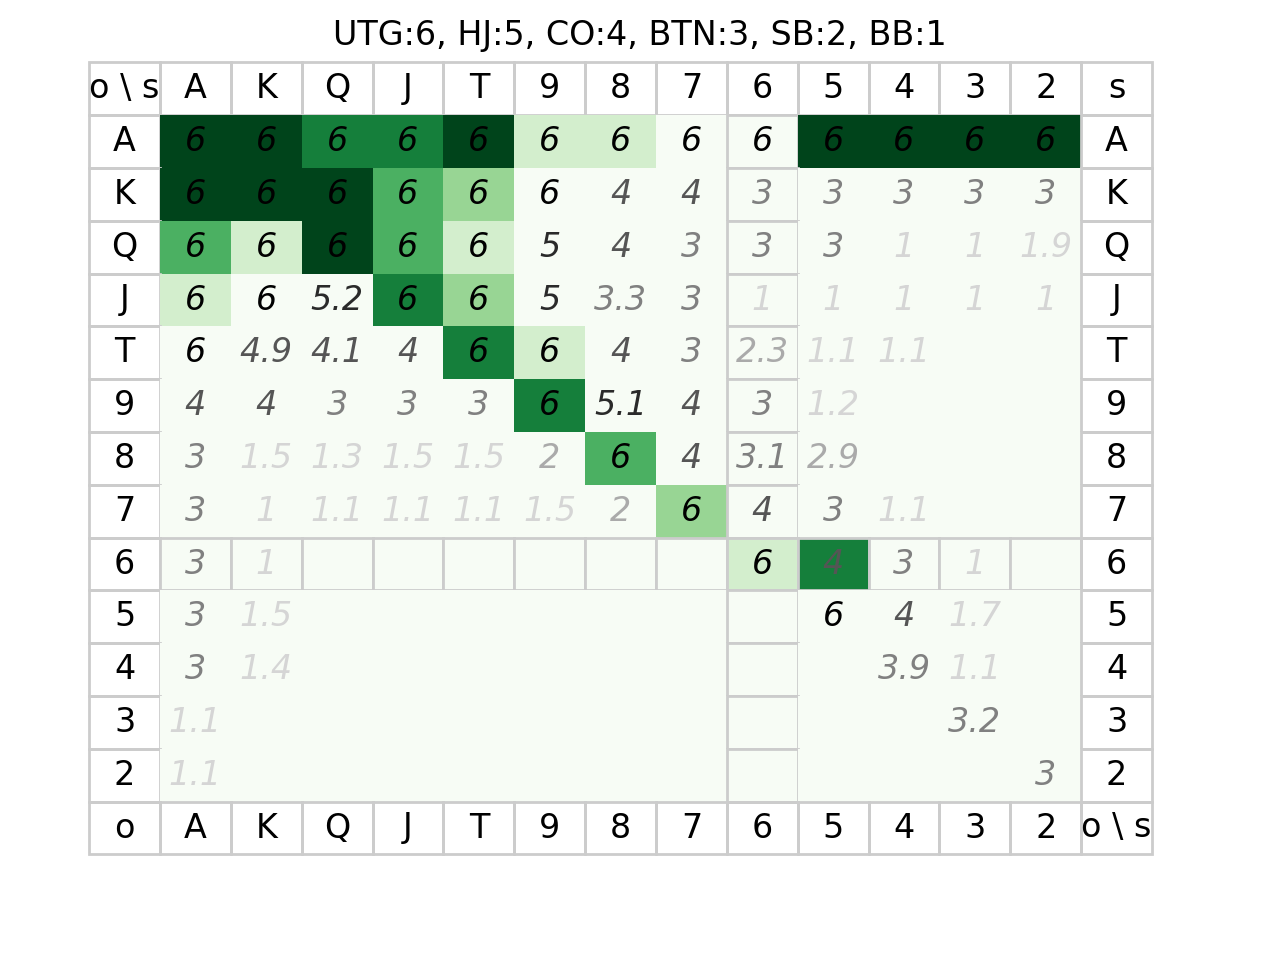
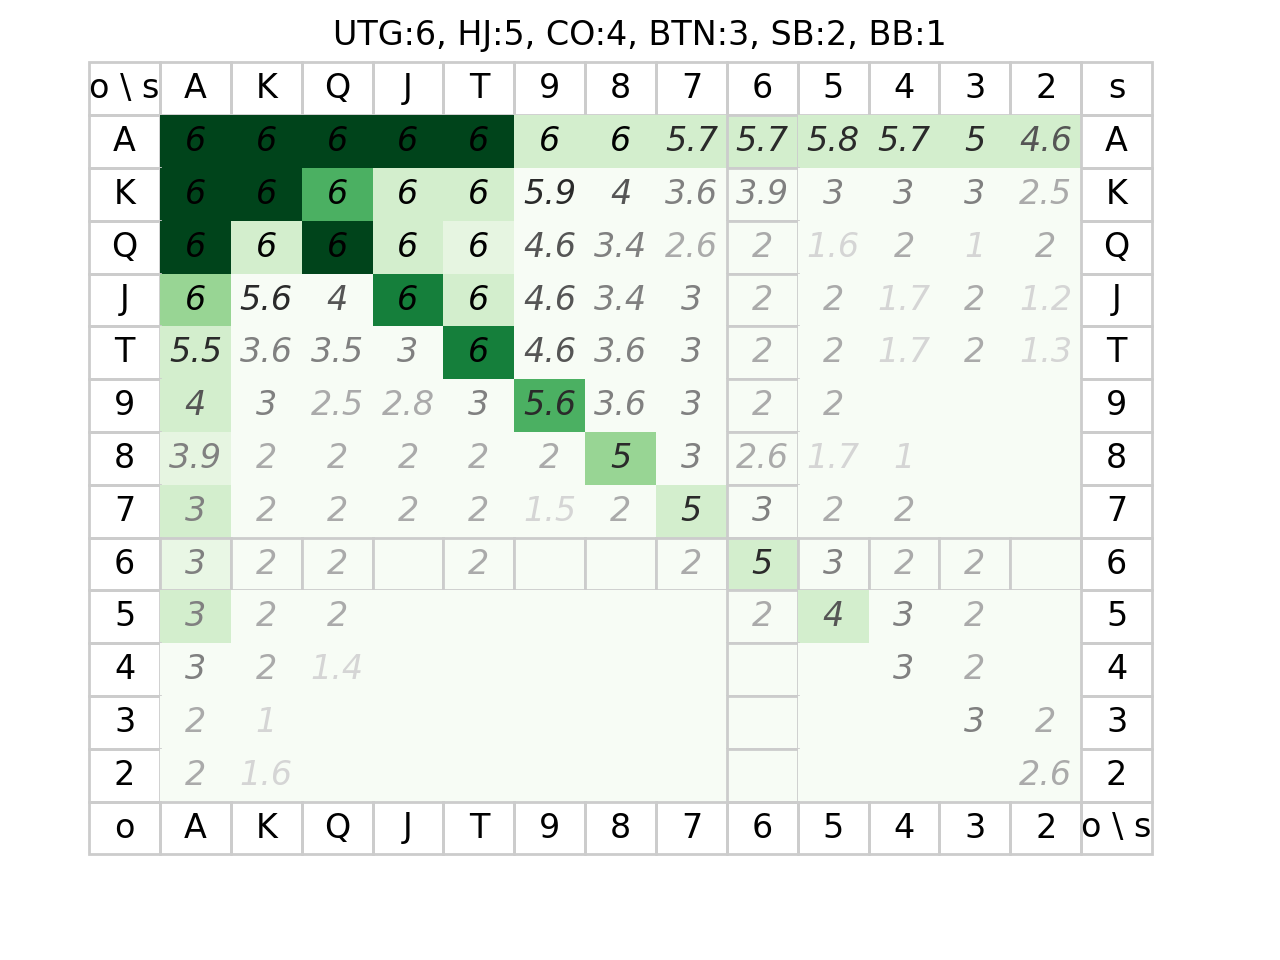
update

diff --git a/poker.py b/poker.py
@@ -7,6 +7,7 @@ from optparse import OptionParser
 sys.path.append('./holdem_calc')
 import holdem_calc
 
+# rev 1
 card_data = {
     # raise or fold: BB[0-1], SB[1-2], BTN[2-3], CO[3-4], HJ[4-5], UTG[5-6]
     "AA" : [6, 7], "KK" : [6, 7], "QQ": [6, 7], "JJ": [6, 6],
@@ -47,6 +48,49 @@ card_data = {
     "98o": [2], "97o": [1.5],
     "87o": [2],
 }
+
+# 30BB, 1POT
+card_data = {
+    # raise or fold: BB[0-1], SB[1-2], BTN[2-3], CO[3-4], HJ[4-5], UTG[5-6]
+    "AA" : [6, 7], "KK" : [6, 7], "QQ": [6, 7], "JJ": [6, 6],
+    "TT" : [6, 6], "99" : [5.6, 5], "88": [5, 4], "77": [5, 3],
+    "66" : [5, 3], "55" : [4, 3], "44": [3], "33": [3],
+    "22" : [2.6],
+    "AKs": [6, 7], "AQs": [6, 7], "AJs": [6, 7], "ATs": [6, 7],
+    "A9s": [6, 3], "A8s": [6, 3], "A7s": [5.7, 3], "A6s": [5.7, 3],
+    "A5s": [5.8, 3], "A4s": [5.7, 3], "A3s": [5, 3], "A2s": [4.6, 3],
+    "KQs": [6, 5], "KJs": [6, 3], "KTs": [6, 3], "K9s": [5.9],
+    "K8s": [4], "K7s": [3.6], "K6s": [3.9], "K5s": [3],
+    "K4s": [3], "K3s": [3], "K2s": [2.5],
+    "QJs": [6, 3], "QTs": [6, 2.6], "Q9s": [4.6], "Q8s": [3.4],
+    "Q7s": [2.6], "Q6s": [2], "Q5s": [1.6], "Q4s": [2],
+    "Q3s": [1], "Q2s": [2],
+    "JTs": [6, 3], "J9s": [4.6], "J8s": [3.4], "J7s": [3],
+    "J6s": [2], "J5s": [2], "J4s": [1.7], "J3s": [2],
+    "J2s": [1.2],
+    "T9s": [4.6], "T8s": [3.6], "T7s": [3], "T6s": [2],
+    "T5s": [2], "T4s": [1.7], "T3s": [2], "T2s": [1.3],
+    "98s": [3.6], "97s": [3], "96s": [2], "95s": [2],
+    "87s": [3], "86s": [2.6], "85s": [1.7], "84s": [1],
+    "76s": [3], "75s": [2], "74s": [2],
+    "65s": [3], "64s": [2], "63s": [2],
+    "54s": [3], "53s": [2],
+    "43s": [2], "32s": [2],
+    # raise or fold: BB[0-1], SB[1-2], BTN[2-3], CO[3-4], HJ[4-5], UTG[5-6]
+    "AKo": [6, 7], "AQo": [6, 7], "AJo": [6, 4], "ATo": [5.5, 3],
+    "A9o": [4, 3], "A8o": [3.9, 2.6], "A7o": [3, 3], "A6o": [3, 2.5],
+    "A5o": [3, 3], "A4o": [3], "A3o": [2], "A2o": [2],
+    "KQo": [6, 3], "KJo": [5.6], "KTo": [3.6], "K9o": [3],
+    "K8o": [2], "K7o": [2], "K6o": [2], "K5o": [2],
+    "K4o": [2], "K3o": [1], "K2o": [1.6],
+    "QJo": [4], "QTo": [3.5], "Q9o": [2.5], "Q8o": [2],
+    "Q7o": [2], "Q6o": [2], "Q5o": [2], "Q4o": [1.4],
+    "JTo": [3], "J9o": [2.8], "J8o": [2], "J7o": [2],
+    "T9o": [3], "T8o": [2], "T7o": [2], "T6o": [2],
+    "98o": [2], "97o": [1.5],
+    "87o": [2], "76o": [2], "65o": [2],
+}
+
 
 itocard = "AKQJT98765432"
 
